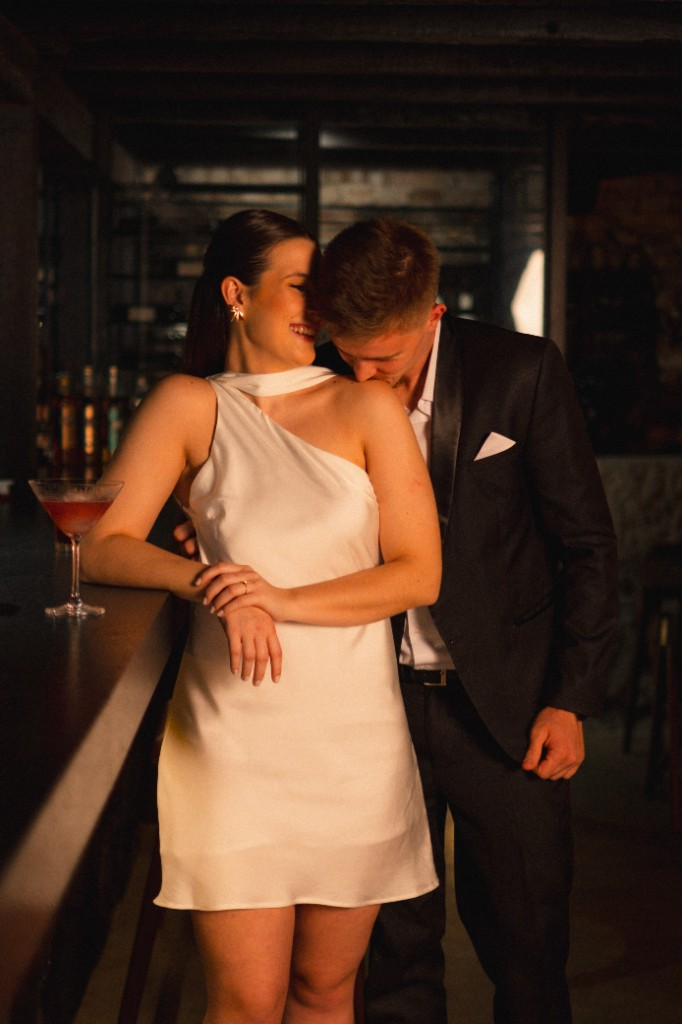
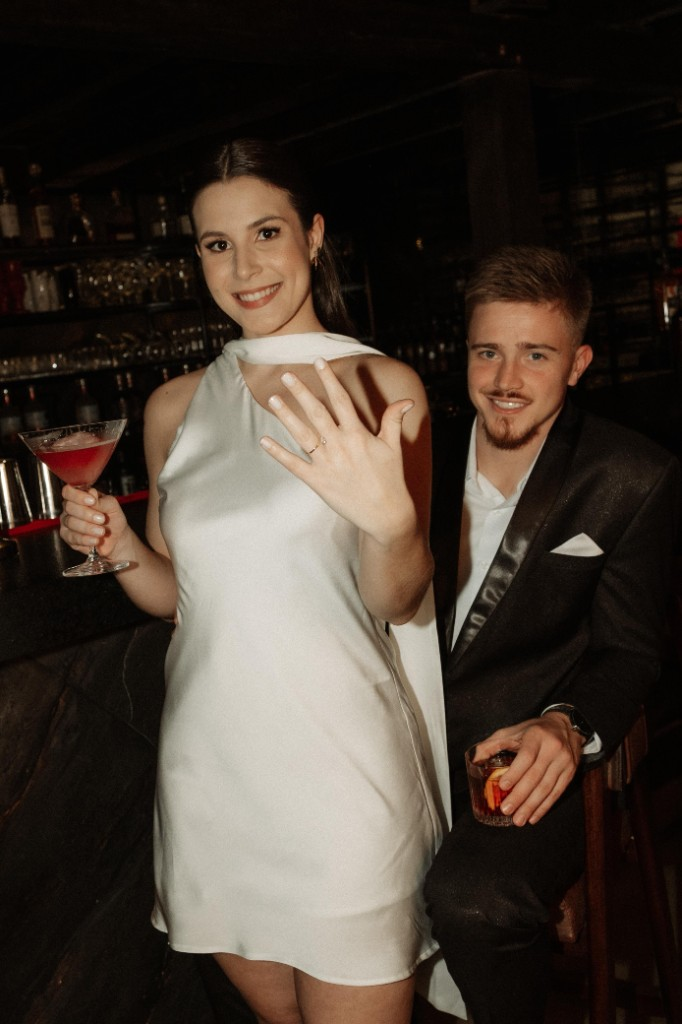
Refactor TrajeSection component by removing image references and simplifying text for clarity. Updated wedding attire suggestions to enhance readability.

diff --git a/components/TrajeSection.tsx b/components/TrajeSection.tsx
@@ -1,5 +1,3 @@
-import Image from "next/image";
-
 export function TrajeSection() {
     return (
         <div className="mx-auto max-w-3xl text-center">
@@ -11,8 +9,7 @@ export function TrajeSection() {
                 <p>
                     Para celebrar esse momento, sugerimos o traje esporte fino.
                     Fiquem à vontade para escolher o estilo e a cor que mais
-                    combinarem com vocês, dentro dessa proposta (algumas
-                    referências abaixo).
+                    combinarem com vocês, dentro dessa proposta.
                 </p>
                 <p>
                     Pedimos apenas que evitem terno cinza claro, reservado aos
@@ -26,17 +23,6 @@ export function TrajeSection() {
                     as mulheres escolham o salto priorizando modelos que
                     proporcionem mais conforto e estabilidade.
                 </p>
-            </div>
-
-            <div className="mx-auto mt-10 w-full max-w-2xl overflow-hidden rounded-xl border border-beige bg-white">
-                <Image
-                    src="/images/traje/esporte-fino.jpg"
-                    alt="Referências de traje esporte fino para convidados"
-                    width={1200}
-                    height={900}
-                    sizes="(max-width: 768px) 100vw, 672px"
-                    className="h-auto w-full object-contain"
-                />
             </div>
         </div>
     );
